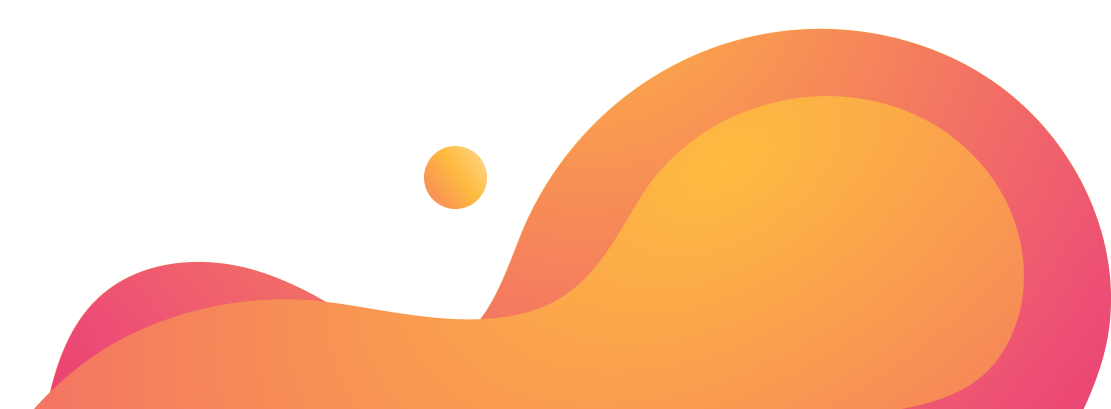
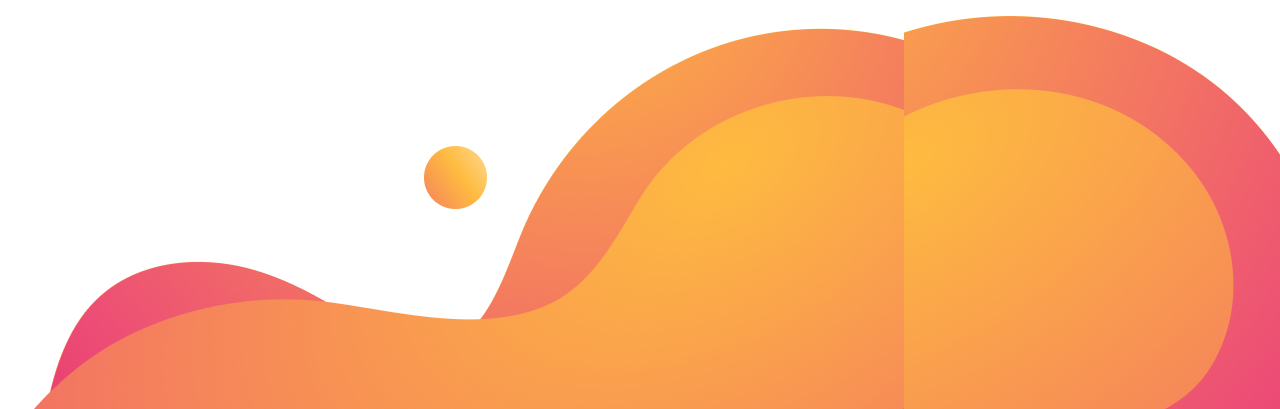
adds new styles

diff --git a/src/pages/HomePage/HomePage.styled.jsx b/src/pages/HomePage/HomePage.styled.jsx
@@ -1,155 +1,136 @@
 import styled from 'styled-components';
 
-import heroBgMob from '../../img/header-hero/hero-bg-mob.png';
-import heroBgMob2x from '../../img/header-hero/hero-bg-mob-2x.png';
 
-import heroBgTab from '../../img/header-hero/hero-bg-tab.png';
-import heroBgTab2x from '../../img/header-hero/hero-bg-tab-2x.png';
 
-import heroBgDes from '../../img/header-hero/hero-bg-des.png';
-import heroBgDes2x from '../../img/header-hero/hero-bg-des-2x.png';
+import heroBg from '../../img/header-hero/heroBg.png'
+import heroBgTab from '../../img/header-hero/heroBgTab.png'
+import heroBgDes from '../../img/header-hero/hero-bg-des.png'
+import heart from '../../img//header-hero/hero-heart-des.png'
+// @media(min - width: 768px) {
 
-import heroHeartDes from '../../img/header-hero/hero-heart-des.png';
-import heroHeartDes2x from '../../img/header-hero/hero-heart-des-2x.png';
-
+// }
 export const MainContainer = styled.div`
+
   width: 320px;
+  height: 100%
   margin: 0 auto;
-  padding: 0 20px;
-  height: -webkit-fill-available;
-  @media (min-width: 768px) {
-    width: 768px;
-    padding: 0 32px;
-  }
-  @media (min-width: 1280px) {
-    width: 1280px;
-    padding: 0 16px;
-  }
+  padding: 60px 20px 0;
+
+  @media(min-width: 768px) {
+  width: 768px;
+  padding: 88px 32px 0;
+}
+    @media(min-width: 1280px) {
+      width: 1280px;
+  padding: 92px 16px 0;
+}
+  
+
 `;
 
 export const HomeSection = styled.section`
-  position: absolute;
-  z-index: -1;
-  bottom: 0;
-  left: 0;
-  background-image: url('${heroBgMob}');
+  background-color: #FDF7F2;
+  position: relative;
+  width: 100vw;
+  display: flex;
+  justify-content: center;
+  height: calc(100vh - 56px);
+  background-image: url('${heroBg}');
   background-repeat: no-repeat;
-  background-position: center 0;
   background-size: cover;
-  padding-top: 60px;
-  width: -webkit-fill-available;
-  height: calc(100% - 56px);
-  @media (min-device-pixel-ratio: 2),
-    (-webkit-min-device-pixel-ratio: 2),
-    (min-resolution: 192dpi),
-    (min-resolution: 2dppx) {
-    background-image: url('${heroBgMob2x}');
-  }
-  @media screen and (min-width: 768px) {
-    background-image: url('${heroBgTab}');
-    padding-top: 90px;
-    width: -webkit-fill-available;
-    height: calc(100% - 56px);
-    @media (min-device-pixel-ratio: 2),
-      (-webkit-min-device-pixel-ratio: 2),
-      (min-resolution: 192dpi),
-      (min-resolution: 2dppx) {
-      background-image: url('${heroBgTab2x}');
-    }
-  }
-  @media screen and (min-width: 1280px) {
-    width: -webkit-fill-available;
-    height: calc(100% - 69px);
-    background-size: contain;
-    background-position: bottom;
-    background-image: url('${heroBgDes}');
-    padding-top: 60px;
-    @media (min-device-pixel-ratio: 2),
-      (-webkit-min-device-pixel-ratio: 2),
-      (min-resolution: 192dpi),
-      (min-resolution: 2dppx) {
-      background-image: url('${heroBgDes2x}');
-    }
-  }
-`;
+  background-position: bottom -70px left 35%;
+  overflow: hidden;
 
-export const Image = styled.img`
-  max-width: 100%;
-  height: calc(100vh - 250px);
-  @media screen and (min-width: 768px) {
-    max-width: 100%;
-    height: calc(100vh - 440px);
-    margin-left: 61px;
-    margin-right: 62px;
-  }
-  @media screen and (min-width: 1280px) {
-    max-width: 100%;
-    height: calc(100vh - 200px);
-  }
-`;
+  @media(min-width: 768px) {
+    height: calc(100vh - 83.2px);
+  background-image: url('${heroBgTab}');
+  background-position: bottom -70px left 25%;
+  background-size: cover;
+}
 
-export const HomeTitle = styled.h1`
-z-index: 1;
-  color: rgba(17, 17, 17, 1);
-  font-weight: 700;
-  font-size: 32px;
-  line-height: 1.38;
-  margin-bottom: 58px;
-  width: 280px;
-  @media screen and (min-width: 768px) {
-    width: 620px;
-    height: 200px;
-    font-size: 68px;
-    line-height: 1.47;
-    padding-left: 32px;
-    margin-bottom: 118px;
-    text-align: left;
-  }
-  @media screen and (min-width: 1280px) {
-    width: 658px;
-    height: 200px;
-    padding-left: 16px;
-    text-align: left;
-    margin-top: 30px;
-  }
-`;
+  @media(min-width: 1280px) {
+    height: calc(100vh - 79.2px);
+    
+  background-image: url('${heroBgDes}');
+  background-position: bottom;
+  background-size: 1400px;
+}
 
-export const HomeWrapp = styled.div`
-  height: -webkit-fill-available;
-  @media screen and (min-width: 1280px) {
-    display: flex;
-  }
 `;
 
 export const ImagesWrapper = styled.div`
   position: absolute;
-  z-index: -1;
   bottom: -4px;
-  left: 5%;
-  @media screen and (min-width: 768px) {
-    position: absolute;
-    bottom: -4px;
-    left: 10%;
-  }
-  @media screen and (min-width: 1280px) {
-    position: static;
-    height: 100%;
-    display: flex;
-    flex-direction: column;
-    justify-content: flex-end;
 
-    background-image: url('${heroHeartDes}');
-    background-repeat: no-repeat;
-    background-position: top 2px left 38px;
-    width: auto;
-    margin-left: 0px;
-    margin-right: 10px;
-    @media (min-device-pixel-ratio: 2),
-      (-webkit-min-device-pixel-ratio: 2),
-      (min-resolution: 192dpi),
-      (min-resolution: 2dppx) {
-      background-image: url('${heroHeartDes2x}');
-      background-size: 90px 90px;
+    @media(min-width: 768px) {
+      width: 704px;
+      padding-left: 13px;
     }
+
+    @media(min-width: 1280px) {
+        width: 1240px;
+        text-align: right;
+        padding-left: 0;
+        
+        &::after {
+    content: '';
+    display block;
+    position: absolute;
+    width: 95px;
+    height: 95px;
+      background-image: url('${heart}');
+  background-repeat: no-repeat;
+  background-size: contain;
+
+  top: -20px;
+  left: 670px;
+
   }
+    }
 `;
+
+export const Image = styled.img`
+position: relative;
+
+width: 280px;
+
+@media(min-width: 768px) {
+      width: 100%
+}
+
+@media(min-width: 1280px) {
+  
+  width: 524px;
+
+  
+}
+
+
+`;
+
+export const HomeTitle = styled.h1`
+// font-family: 'Manrope';
+font-style: normal;
+font-weight: 700;
+font-size: 32px;
+line-height: 44px;
+color: #000000;
+margin: 0;
+
+@media(min-width: 768px) {
+  font-size: 68px;
+  line-height: 100px;
+}
+
+@media(min-width: 1280px) {
+  display: block;
+  width: 590px;
+}
+
+`;
+
+export const HomeWrapp = styled.div`
+
+`;
+
+
